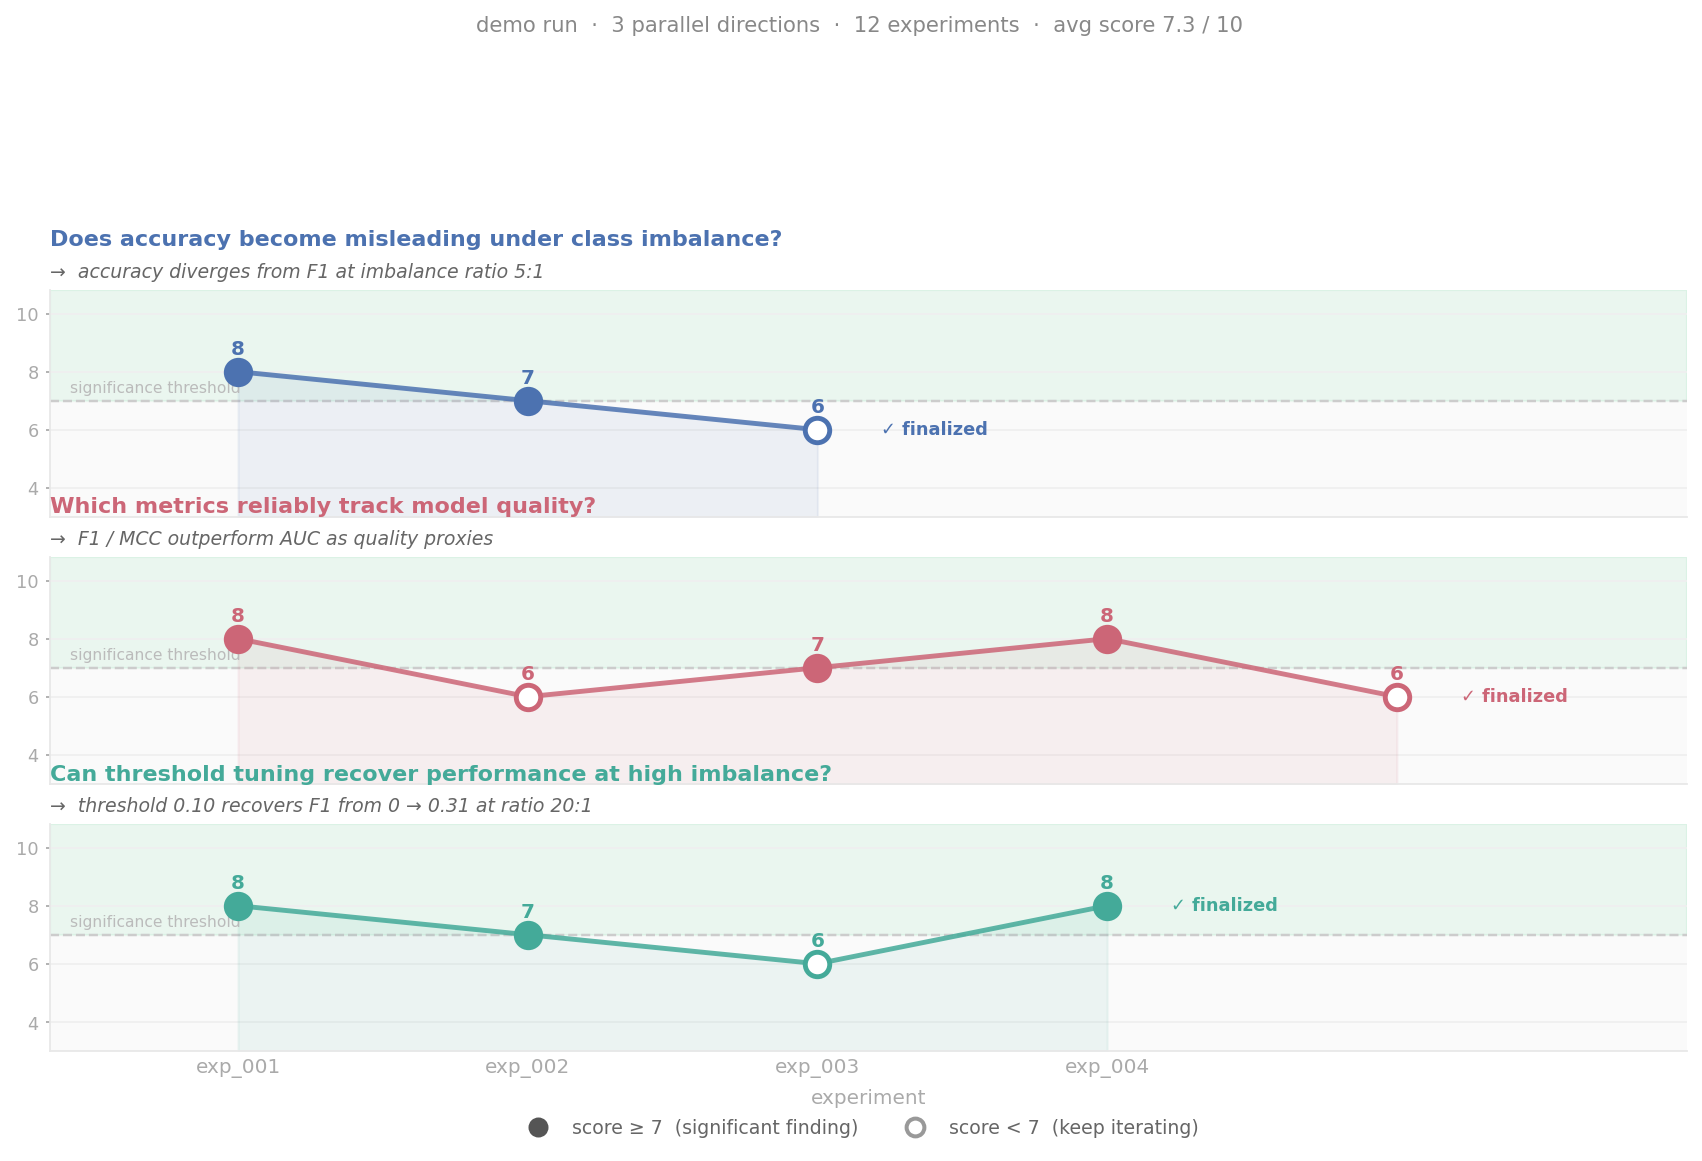
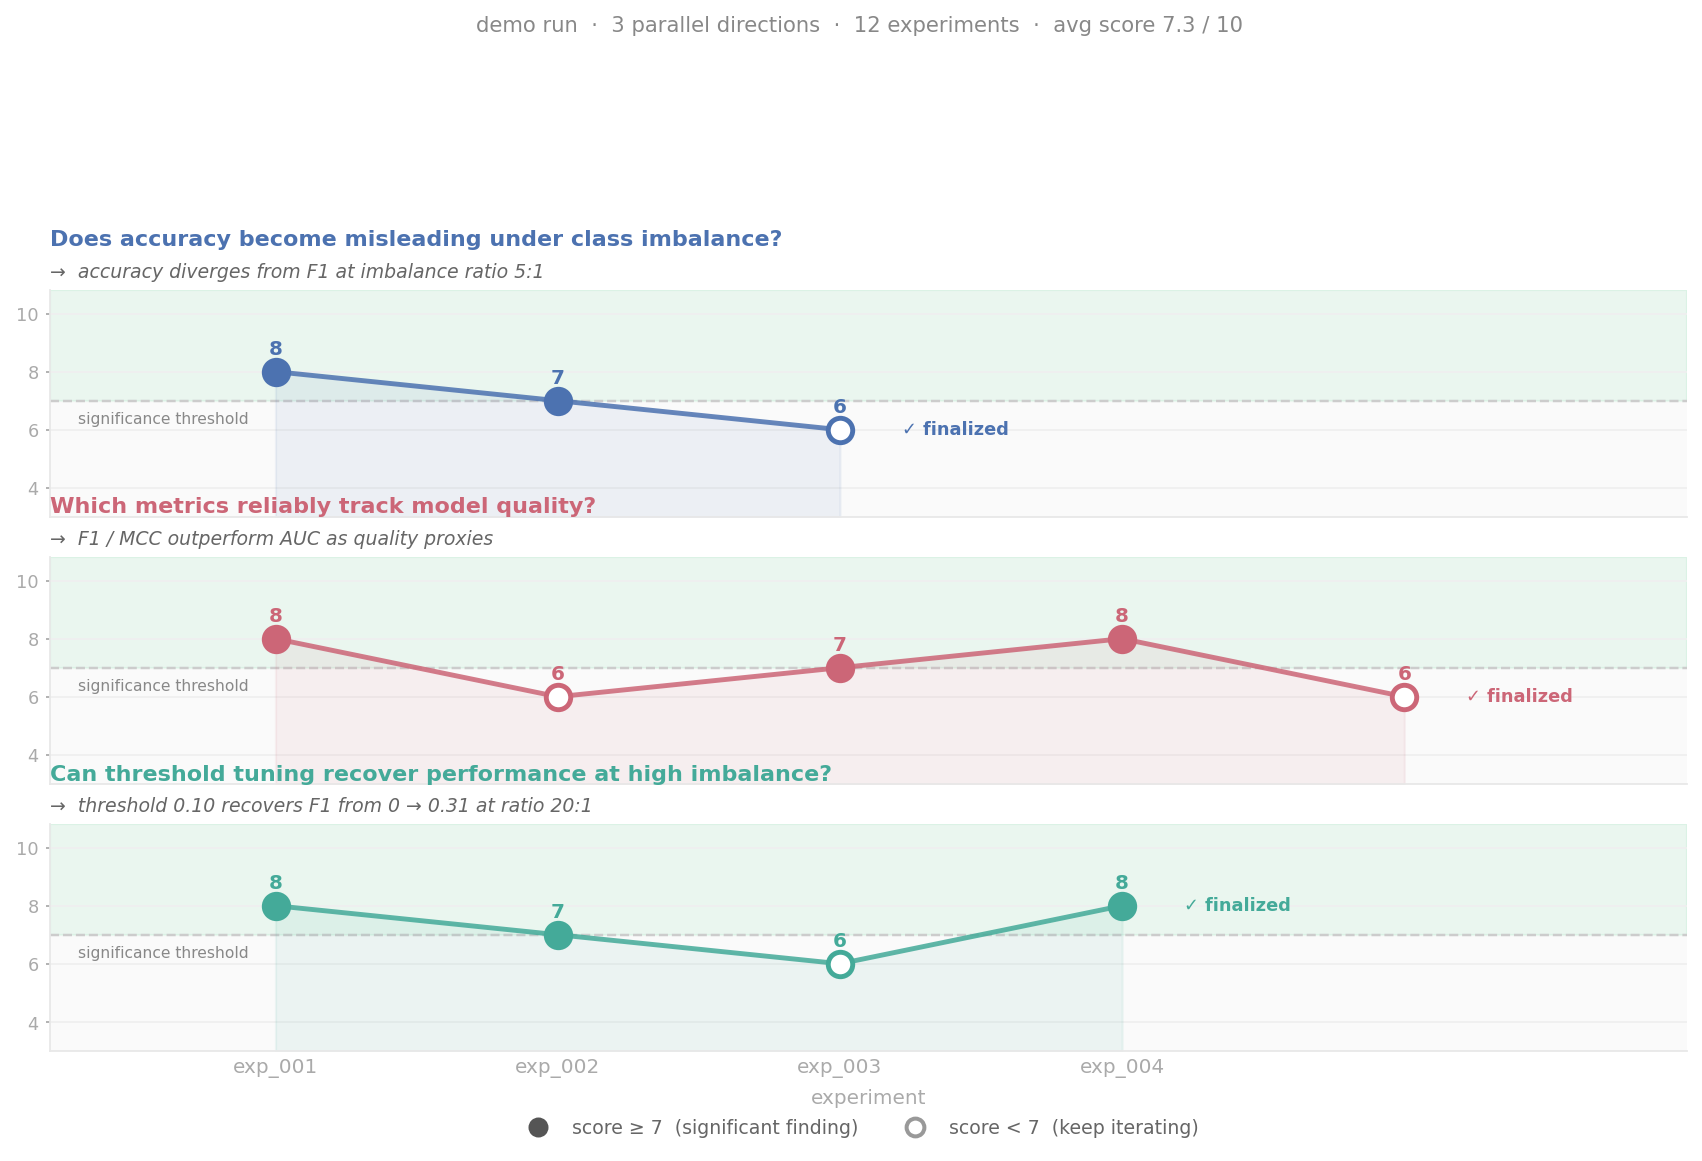
Increase readme visuals readability

diff --git a/assets/gen_papers_diagram.py b/assets/gen_papers_diagram.py
@@ -1,7 +1,7 @@
 #!/usr/bin/env python3
 """Generate papers pipeline diagram as clean SVG (stdlib only, no matplotlib)."""
 
-W, H, mid_y = 1300, 360, 170
+W, H = 1300, 480
 WORKER_COLOR = "#9B6B9B"
 TIER_COLORS  = ["#E07B39", "#5B8DB8", "#44AA99"]
 TIER_LABELS  = ["index.md", "overview/", "condensed/"]
@@ -11,24 +11,25 @@ TIER_DESCS   = [
     ("10-20% of original paper", "loaded when directly relevant"),
 ]
 
-# 3 workers: h=90, gap=20 → tops=[15,125,235], centers=[60,170,280]
-WX, WW, WH = 520, 245, 90
-w_tops    = [15, 15 + WH + 20, 15 + 2 * (WH + 20)]   # [15, 125, 235]
-w_centers = [t + WH // 2 for t in w_tops]              # [60, 170, 280]
+# 3 workers: h=130, gap=22 → tops=[15,167,319], centers=[80,232,384]
+WX, WW, WH = 520, 245, 130
+w_tops    = [15, 15 + WH + 22, 15 + 2 * (WH + 22)]   # [15, 167, 319]
+w_centers = [t + WH // 2 for t in w_tops]              # [80, 232, 384]
+mid_y     = w_centers[1]                               # 232
 
 # 3 output boxes: same vertical positions as workers
-OX, OW, OH = 845, 355, 90
+OX, OW, OH = 840, 360, 130
 o_tops    = w_tops
 o_centers = w_centers
 
 def esc(s):
     return s.replace("&", "&amp;").replace("<", "&lt;").replace(">", "&gt;")
 
-def rect(x, y, w, h, fill, stroke, sw=1.6, rx=12, opacity=1.0):
+def rect(x, y, w, h, fill, stroke, sw=2.0, rx=12, opacity=1.0):
     return (f'<rect x="{x}" y="{y}" width="{w}" height="{h}" rx="{rx}" ry="{rx}" '
             f'fill="{fill}" fill-opacity="{opacity}" stroke="{stroke}" stroke-width="{sw}"/>')
 
-def arr(x1, y1, x2, y2, col="#aaaaaa", sw=1.4):
+def arr(x1, y1, x2, y2, col="#aaaaaa", sw=2.2):
     return (f'<line x1="{x1}" y1="{y1}" x2="{x2}" y2="{y2}" '
             f'stroke="{col}" stroke-width="{sw}" marker-end="url(#arr)"/>')
 
@@ -42,65 +43,67 @@ def txt(x, y, s, size=13, fill="#333333", bold=False, italic=False, anchor="midd
 out = [
     f'<svg xmlns="http://www.w3.org/2000/svg" viewBox="0 0 {W} {H}">',
     '<defs>',
-    '  <marker id="arr" markerWidth="9" markerHeight="7" refX="9" refY="3.5"'
+    '  <marker id="arr" markerWidth="14" markerHeight="10" refX="13" refY="5"'
     ' orient="auto" markerUnits="userSpaceOnUse">',
-    '    <path d="M0,0.5 L9,3.5 L0,6.5 Z" fill="#aaaaaa"/>',
+    '    <path d="M0,1 L13,5 L0,9 Z" fill="#aaaaaa"/>',
     '  </marker>',
     '</defs>',
     f'<rect width="{W}" height="{H}" fill="white"/>',
 ]
 
 # ── papers/raw/ box ───────────────────────────────────────────────────────────
-RAW_CX = 102
+RAW_CX = 105
 out += [
-    rect(20, mid_y - 75, 165, 150, "#f7f7f7", "#cccccc"),
-    txt(RAW_CX, mid_y - 42, "papers/raw/",  size=13, fill="#444444", bold=True),
-    txt(RAW_CX, mid_y - 18, "e.g.  paper_a.pdf", size=9, fill="#999999", italic=True),
-    txt(RAW_CX, mid_y -  2, "e.g.  paper_b.pdf", size=9, fill="#999999", italic=True),
-    txt(RAW_CX, mid_y + 22, '\u201cRead ingest.md', size=9, fill="#aaaaaa", italic=True),
-    txt(RAW_CX, mid_y + 38, 'and begin\u201d',      size=9, fill="#aaaaaa", italic=True),
+    rect(20, mid_y - 105, 175, 210, "#f7f7f7", "#cccccc"),
+    txt(RAW_CX, mid_y - 62, "papers/raw/",       size=21, fill="#444444", bold=True),
+    txt(RAW_CX, mid_y - 32, "e.g.  paper_a.pdf", size=14, fill="#999999", italic=True),
+    txt(RAW_CX, mid_y - 10, "e.g.  paper_b.pdf", size=14, fill="#999999", italic=True),
+    txt(RAW_CX, mid_y + 20, '\u201cRead ingest.md', size=14, fill="#aaaaaa", italic=True),
+    txt(RAW_CX, mid_y + 42, 'and begin\u201d',      size=14, fill="#aaaaaa", italic=True),
 ]
 
 # ── arrow raw → ingest.md ─────────────────────────────────────────────────────
-out.append(arr(185, mid_y, 255, mid_y))
+out.append(arr(195, mid_y, 265, mid_y))
 
 # ── ingest.md box ─────────────────────────────────────────────────────────────
-PROG_CX = 355
+PROG_CX = 375
 out += [
-    rect(255, mid_y - 75, 200, 150, "#f7f7f7", "#aaaaaa"),
-    txt(PROG_CX, mid_y - 38, "ingest.md",         size=13, fill="#333333", bold=True),
-    txt(PROG_CX, mid_y - 15, "orchestrator",       size=10, fill="#999999", italic=True),
-    txt(PROG_CX, mid_y +  8, "one worker per PDF", size=9,  fill="#aaaaaa"),
+    rect(265, mid_y - 105, 215, 210, "#f7f7f7", "#aaaaaa"),
+    txt(PROG_CX, mid_y - 50, "ingest.md",          size=21, fill="#333333", bold=True),
+    txt(PROG_CX, mid_y - 22, "orchestrator",        size=17, fill="#999999", italic=True),
+    txt(PROG_CX, mid_y +  8, "one worker per PDF",  size=16, fill="#aaaaaa"),
 ]
 
 # ── arrows ingest.md → workers ────────────────────────────────────────────────
 for cy in w_centers:
-    out.append(arr(455, mid_y, WX, cy))
+    out.append(arr(480, mid_y, WX, cy))
+
+PAPER_NAMES = ["paper_a.pdf", "paper_b.pdf", "paper_c.pdf"]
 
 # ── per-paper worker boxes ────────────────────────────────────────────────────
-for t, cy in zip(w_tops, w_centers):
+for t, cy, paper in zip(w_tops, w_centers, PAPER_NAMES):
     wx = WX + WW // 2
     out += [
         rect(WX, t, WW, WH, WORKER_COLOR, WORKER_COLOR, sw=0, opacity=0.10),
-        rect(WX, t, WW, WH, "none", WORKER_COLOR, sw=1.6),
-        txt(wx, cy - 14, "e.g.  paper_x.pdf", size=9.5, fill=WORKER_COLOR, bold=True),
-        txt(wx, cy +  8, "reads + distils",   size=9,   fill="#888888"),
+        rect(WX, t, WW, WH, "none", WORKER_COLOR, sw=2.2),
+        txt(wx, cy - 20, paper,            size=15, fill=WORKER_COLOR, bold=True),
+        txt(wx, cy +  8, "reads + distils", size=14, fill="#888888"),
     ]
 
 # ── arrows workers → outputs (all-to-all, faint) ─────────────────────────────
 for cy in w_centers:
     for oy in o_centers:
-        out.append(arr(WX + WW, cy, OX, oy, col="#dddddd", sw=1.0))
+        out.append(arr(WX + WW, cy, OX, oy, col="#dddddd", sw=1.2))
 
 # ── output tier boxes ─────────────────────────────────────────────────────────
 for t, cy, col, lbl, (desc1, desc2) in zip(o_tops, o_centers, TIER_COLORS, TIER_LABELS, TIER_DESCS):
     ox = OX + OW // 2
     out += [
         rect(OX, t, OW, OH, col, col, sw=0, opacity=0.10),
-        rect(OX, t, OW, OH, "none", col, sw=1.7),
-        txt(ox, cy - 18, lbl,   size=11, fill=col, bold=True),
-        txt(ox, cy +  4, desc1, size=9,  fill="#777777"),
-        txt(ox, cy + 20, desc2, size=9,  fill="#777777"),
+        rect(OX, t, OW, OH, "none", col, sw=2.2),
+        txt(ox, cy - 28, lbl,   size=18, fill=col, bold=True),
+        txt(ox, cy -  2, desc1, size=14, fill="#777777"),
+        txt(ox, cy + 20, desc2, size=14, fill="#777777"),
     ]
 
 out.append('</svg>')

diff --git a/assets/gen_diagram.py b/assets/gen_diagram.py
@@ -28,7 +28,7 @@ def rect(x, y, w, h, fill, stroke, sw=1.6, rx=12, opacity=1.0):
 
 def arr(x1, y1, x2, y2, col="#aaaaaa"):
     return (f'<line x1="{x1}" y1="{y1}" x2="{x2}" y2="{y2}" '
-            f'stroke="{col}" stroke-width="1.4" marker-end="url(#arr)"/>')
+            f'stroke="{col}" stroke-width="2.2" marker-end="url(#arr)"/>')
 
 def txt(x, y, s, size=13, fill="#333333", bold=False, italic=False, anchor="middle"):
     fw = "bold" if bold else "normal"
@@ -40,9 +40,9 @@ def txt(x, y, s, size=13, fill="#333333", bold=False, italic=False, anchor="midd
 out = [
     f'<svg xmlns="http://www.w3.org/2000/svg" viewBox="0 0 {W} {H}">',
     '<defs>',
-    '  <marker id="arr" markerWidth="9" markerHeight="7" refX="9" refY="3.5"'
+    '  <marker id="arr" markerWidth="14" markerHeight="10" refX="13" refY="5"'
     ' orient="auto" markerUnits="userSpaceOnUse">',
-    '    <path d="M0,0.5 L9,3.5 L0,6.5 Z" fill="#aaaaaa"/>',
+    '    <path d="M0,1 L13,5 L0,9 Z" fill="#aaaaaa"/>',
     '  </marker>',
     '</defs>',
     f'<rect width="{W}" height="{H}" fill="white"/>',
@@ -50,10 +50,10 @@ out = [
 
 # ── "you" box ────────────────────────────────────────────────────────────────
 out += [
-    rect(20, mid_y - 60, 162, 120, "#f7f7f7", "#cccccc"),
-    txt(101, mid_y - 22, "you", size=15, fill="#444444", bold=True),
-    txt(101, mid_y + 5,  '\u201cRead program.md', size=10, fill="#888888", italic=True),
-    txt(101, mid_y + 22, 'and begin\u201d',        size=10, fill="#888888", italic=True),
+    rect(20, mid_y - 60, 162, 120, "#f7f7f7", "#cccccc", sw=2.2),
+    txt(101, mid_y - 22, "you", size=24, fill="#444444", bold=True),
+    txt(101, mid_y + 8,  '\u201cRead program.md', size=16, fill="#888888", italic=True),
+    txt(101, mid_y + 28, 'and begin\u201d',        size=16, fill="#888888", italic=True),
 ]
 
 # ── arrow you → program.md ───────────────────────────────────────────────────
@@ -61,11 +61,11 @@ out.append(arr(182, mid_y, 252, mid_y))
 
 # ── program.md box ───────────────────────────────────────────────────────────
 out += [
-    rect(252, mid_y - 95, 216, 190, "#f7f7f7", "#aaaaaa"),
-    txt(360, mid_y - 50, "program.md", size=14, fill="#333333", bold=True),
-    txt(360, mid_y - 27, "orchestrator", size=11, fill="#999999", italic=True),
-    txt(360, mid_y +  2, "spawns one worker", size=10, fill="#aaaaaa"),
-    txt(360, mid_y + 20, "per direction",     size=10, fill="#aaaaaa"),
+    rect(252, mid_y - 95, 216, 190, "#f7f7f7", "#aaaaaa", sw=2.2),
+    txt(360, mid_y - 50, "program.md",        size=22, fill="#333333", bold=True),
+    txt(360, mid_y - 24, "orchestrator",       size=17, fill="#999999", italic=True),
+    txt(360, mid_y +  4, "spawns one worker",  size=16, fill="#aaaaaa"),
+    txt(360, mid_y + 24, "per direction",      size=16, fill="#aaaaaa"),
 ]
 
 # ── arrows program.md → workers ──────────────────────────────────────────────
@@ -77,10 +77,10 @@ for t, cy, col, (line1, line2), exp in zip(w_tops, w_centers, DIR_COLORS, DIR_TI
     wx = WX + WW // 2
     out += [
         rect(WX, t, WW, WH, col, col, sw=0, opacity=0.10),
-        rect(WX, t, WW, WH, "none", col, sw=1.8),
-        txt(wx, cy - 22, line1, size=11, fill=col, bold=True),
-        txt(wx, cy -  2, line2, size=11, fill=col, bold=True),
-        txt(wx, cy + 24, exp,   size=10, fill="#777777"),
+        rect(WX, t, WW, WH, "none", col, sw=2.5),
+        txt(wx, cy - 24, line1, size=18, fill=col, bold=True),
+        txt(wx, cy -  2, line2, size=18, fill=col, bold=True),
+        txt(wx, cy + 28, exp,   size=16, fill="#777777"),
     ]
 
 # ── arrows workers → findings.md ─────────────────────────────────────────────
@@ -91,11 +91,11 @@ for cy in w_centers:
 # ── findings.md box ──────────────────────────────────────────────────────────
 fcx = FX + 118
 out += [
-    rect(FX, mid_y - 95, 236, 190, "#f7f7f7", "#aaaaaa"),
-    txt(fcx, mid_y - 50, "findings.md",           size=14, fill="#333333", bold=True),
-    txt(fcx, mid_y - 18, "quantified results",    size=10, fill="#999999"),
-    txt(fcx, mid_y +  2, "counterarguments",      size=10, fill="#999999"),
-    txt(fcx, mid_y + 22, "prioritised follow-ups",size=10, fill="#999999"),
+    rect(FX, mid_y - 95, 236, 190, "#f7f7f7", "#aaaaaa", sw=2.2),
+    txt(fcx, mid_y - 50, "findings.md",            size=22, fill="#333333", bold=True),
+    txt(fcx, mid_y - 20, "quantified results",     size=16, fill="#999999"),
+    txt(fcx, mid_y +  2, "counterarguments",       size=16, fill="#999999"),
+    txt(fcx, mid_y + 24, "prioritised follow-ups", size=16, fill="#999999"),
 ]
 
 out.append('</svg>')

diff --git a/assets/gen_progression.py b/assets/gen_progression.py
@@ -45,8 +45,8 @@ for i, (ax, d) in enumerate(zip(axes, DIRECTIONS)):
     # ── threshold band & line ─────────────────────────────────────────────────
     ax.axhspan(THRESHOLD, 10.8, color="#2ecc71", alpha=0.08, zorder=0)
     ax.axhline(THRESHOLD, color="#ccc", linestyle="--", linewidth=1.1, zorder=1)
-    ax.text(0.42, THRESHOLD + 0.2, "significance threshold",
-            fontsize=7, color="#bbb", va="bottom")
+    ax.text(0.30, THRESHOLD - 0.35, "significance threshold",
+            fontsize=7, color="#888", va="top")
 
     # ── fill under curve ─────────────────────────────────────────────────────
     ax.fill_between(xs, scores, 3.0, color=color, alpha=0.08, zorder=2)
@@ -69,7 +69,7 @@ for i, (ax, d) in enumerate(zip(axes, DIRECTIONS)):
             fontsize=8, color=color, va="center", ha="left", fontweight="semibold")
 
     # ── axes styling ──────────────────────────────────────────────────────────
-    ax.set_xlim(0.35, N_COLS + 1.0)
+    ax.set_xlim(0.2, N_COLS + 1.0)
     ax.set_ylim(3.0, 10.8)
     ax.set_yticks([4, 6, 8, 10])
     ax.tick_params(axis="y", labelsize=8, colors="#aaa", length=2, pad=3)
